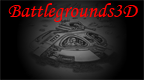
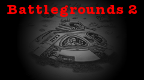
Finished user-visible rebranding

diff --git a/main.cpp b/main.cpp
@@ -13,6 +13,8 @@
 PSP_MODULE_INFO("Battlegrounds2", 0, 1, 1);
 PSP_MAIN_THREAD_ATTR(THREAD_ATTR_USER|THREAD_ATTR_VFPU);
 
+char title_text[] = "Battlegrounds2";
+
 u8 __attribute__((aligned(16))) tankList[128];
 u8 __attribute__((aligned(16))) mineList[32];
 u8 __attribute__((aligned(16))) flagList[64];
@@ -524,7 +526,7 @@ int main(int argc, char **argv)
                             bg3dConsole.UpdateConsole(dt);
                             xGuFrameStart();
                             xDrawTexture(0, 0, &background);
-                            xText2DPrintf(&font, 240, 10, 0xFF0000FF, 0, 2.0f, 1, 1, "Battlegrounds3D");
+                            xText2DPrintf(&font, 240, 10, 0xFF0000FF, 0, 2.0f, 1, 1, title_text);
                             int line = 40;
                             xText2DPrintf(&font, 240, line, (MenuOption2 == 1 ? 0xFF0000FF : 0xFFFFFFFF), 0, 1.0f, 1, 1, "Enemies: %i", NUM_ENEMIES);
                             line += LINE_HEIGHT;
@@ -591,7 +593,7 @@ int main(int argc, char **argv)
                                         bg3dConsole.UpdateConsole(dt);
                                         xGuFrameStart();
                                         xDrawTexture(0, 0, &background);
-                                        xText2DPrintf(&font, 240, 10, 0xFF0000FF, 0, 2.0f, 1, 1, "Battlegrounds3D");
+                                        xText2DPrintf(&font, 240, 10, 0xFF0000FF, 0, 2.0f, 1, 1, title_text);
                                         int line = 40;
                                         xText2DPrintf(&font, 240, line, (MenuOption3 == 1 ? 0xFF0000FF : 0xFFFFFFFF), 0, 1.0f, 1, 1, "Length: %i", length);
                                         line += LINE_HEIGHT;
@@ -647,7 +649,7 @@ int main(int argc, char **argv)
                                     bg3dConsole.UpdateConsole(dt);
                                     xGuFrameStart();
                                     xDrawTexture(0, 0, &background);
-                                    xText2DPrintf(&font, 240, 10, 0xFF0000FF, 0, 2.0f, 1, 1, "Battlegrounds3D");
+                                    xText2DPrintf(&font, 240, 10, 0xFF0000FF, 0, 2.0f, 1, 1, title_text);
                                     xText2DPrintf(&font, 240, 40, 0xFFFFFFFF, 0, 1.0f, 1, 1, "Really delete map?");
                                     int line = 60;
                                     xText2DPrintf(&font, 240, line, (MenuOption3 == 1 ? 0xFF0000FF : 0xFFFFFFFF), 0, 1.0f, 1, 1, "Yes");
@@ -661,7 +663,7 @@ int main(int argc, char **argv)
                             bg3dConsole.UpdateConsole(dt);
                             xGuFrameStart();
                             xDrawTexture(0, 0, &background);
-                            xText2DPrintf(&font, 240, 10, 0xFF0000FF, 0, 2.0f, 1, 1, "Battlegrounds3D");
+                            xText2DPrintf(&font, 240, 10, 0xFF0000FF, 0, 2.0f, 1, 1, title_text);
                             int line = 40;
                             xText2DPrintf(&font, 240, line, (MenuOption2 == 1 ? 0xFF0000FF : 0xFFFFFFFF), 0, 1.0f, 1, 1, "New Map");
                             for (int i = 0; i < maps.NumFiles(); i++)
@@ -728,7 +730,7 @@ int main(int argc, char **argv)
                             bg3dConsole.UpdateConsole(dt);
                             xGuFrameStart();
                             xDrawTexture(0, 0, &background);
-                            xText2DPrintf(&font, 240, 10, 0xFF0000FF, 0, 2.0f, 1, 1, "Battlegrounds3D");
+                            xText2DPrintf(&font, 240, 10, 0xFF0000FF, 0, 2.0f, 1, 1, title_text);
                             int line = 40;
                             xText2DPrintf(&font, 240, line, (MenuOption2 == 1 ? 0xFF0000FF : 0xFFFFFFFF), 0, 1.0f, 1, 1, "Analog Deadzone: %u", cfg_analog_deadzone);
                             line += LINE_HEIGHT;
@@ -757,7 +759,7 @@ int main(int argc, char **argv)
                 bg3dConsole.UpdateConsole(dt);
                 xGuFrameStart();
                 xDrawTexture(0, 0, &background);
-                xText2DPrintf(&font, 240, 10, 0xFF0000FF, 0, 2.0f, 1, 1, "Battlegrounds3D");
+                xText2DPrintf(&font, 240, 10, 0xFF0000FF, 0, 2.0f, 1, 1, title_text);
                 int line = 40;
                 xText2DPrintf(&font, 240, line, (MenuOption == 1 ? 0xFF0000FF : 0xFFFFFFFF), 0, 1.0f, 1, 1, "Start Game");
                 line += LINE_HEIGHT;
@@ -871,7 +873,7 @@ void PauseEditor()
         xGuFrameStart();
         DrawEditor();
         xDrawRectSolid(EDIT_PAUSE_MARGINS, EDIT_PAUSE_Y, 480 - 2*EDIT_PAUSE_MARGINS, EDIT_PAUSE_HEIGHT, 0x60000000);
-        xText2DPrintf(&font, 240, 10, 0xFF0000FF, 0, 2.0f, 1, 1, "Battlegrounds3D");
+        xText2DPrintf(&font, 240, 10, 0xFF0000FF, 0, 2.0f, 1, 1, title_text);
         int line = EDIT_PAUSE_Y + 5;
         xText2DPrintf(&font, 240, line, (MenuOption == 1 ? 0xFF0000FF : 0xFFFFFFFF), 0, 1.0f, 1, 1, "Resume");
         line += LINE_HEIGHT;
@@ -1134,7 +1136,7 @@ void PauseGame()
         xGuFrameStart();
         DrawGame();
         xDrawRectSolid(GAME_PAUSE_MARGINS, GAME_PAUSE_Y, 480 - 2*GAME_PAUSE_MARGINS, GAME_PAUSE_HEIGHT, 0x60000000);
-        xText2DPrintf(&font, 240, 10, 0xFF0000FF, 0, 2.0f, 1, 1, "Battlegrounds3D");
+        xText2DPrintf(&font, 240, 10, 0xFF0000FF, 0, 2.0f, 1, 1, title_text);
         int line = GAME_PAUSE_Y + 5;
         xText2DPrintf(&font, 240, line, (MenuOption == 1 ? 0xFF0000FF : 0xFFFFFFFF), 0, 1.0f, 1, 1, "Resume");
         line += LINE_HEIGHT;
